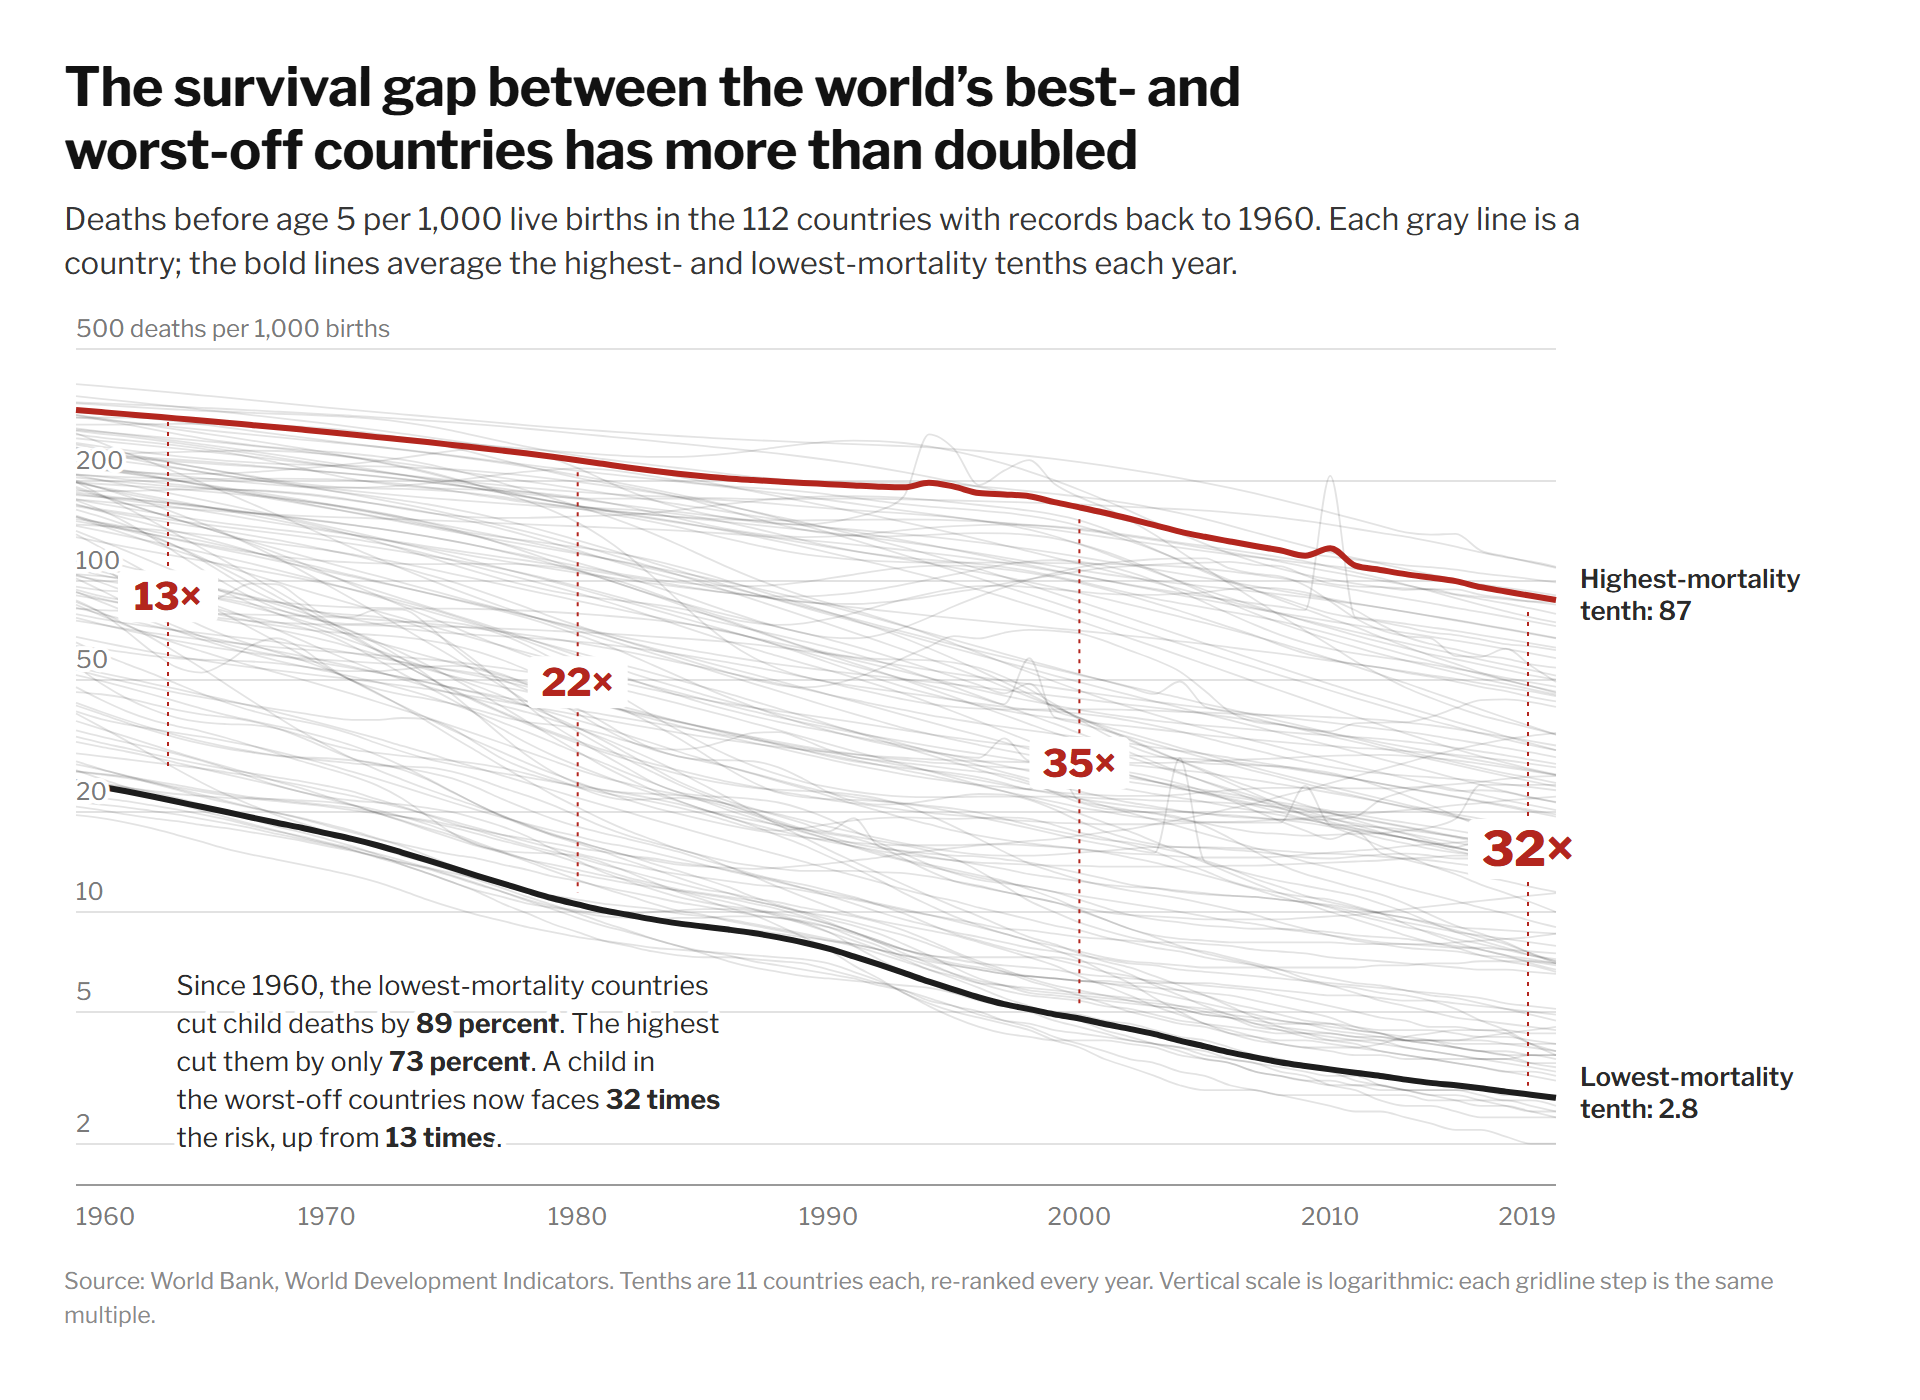
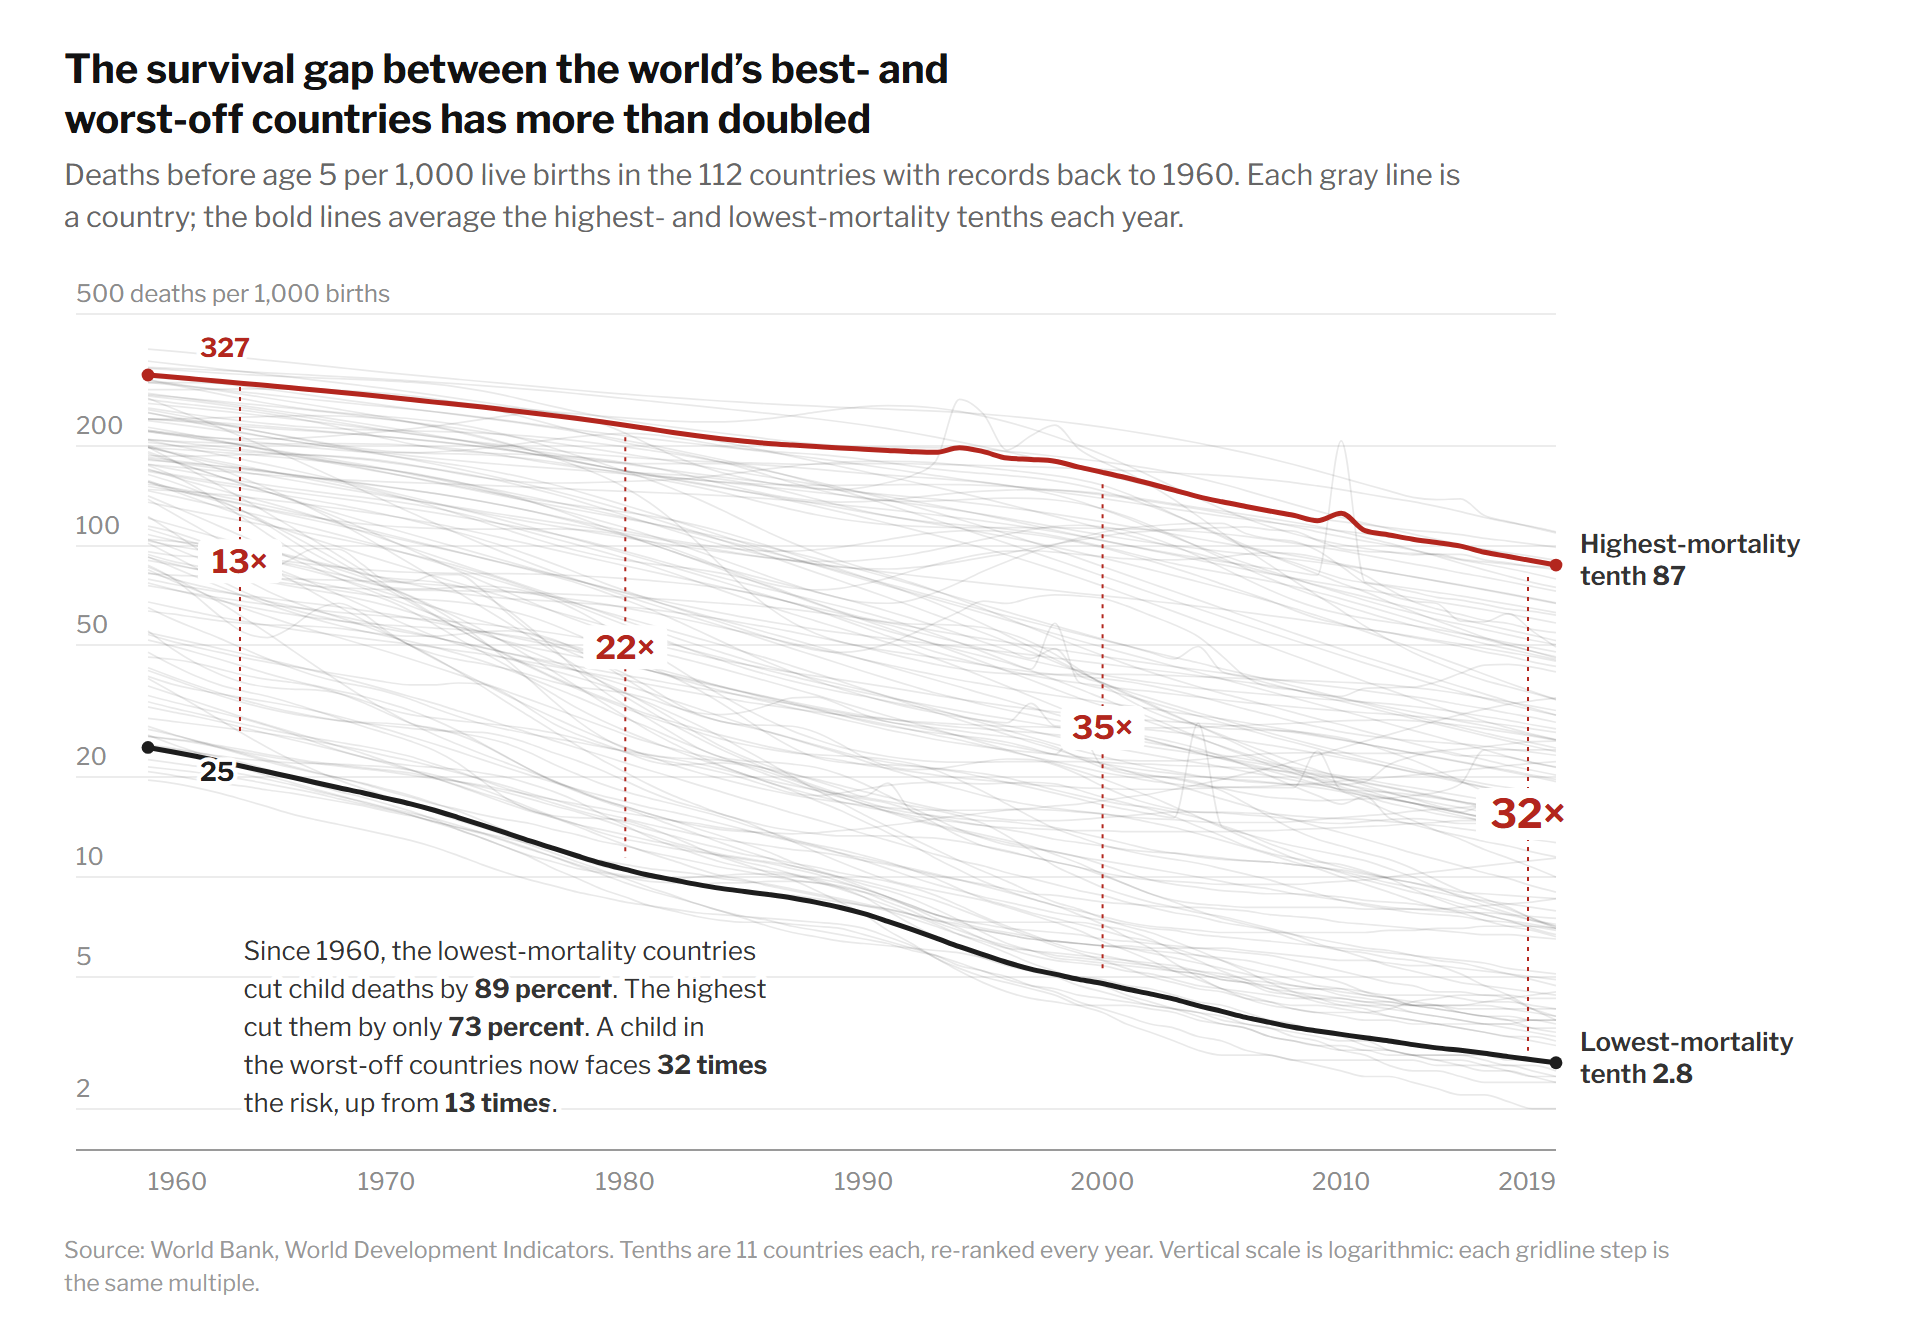
Quieter in-article chart styling: smaller titles, lighter context lines, endpoint values

Changed region(s): [[0.0312, 0.0308, 0.9375, 0.9865], [0.0312, 0.6165, 0.0625, 0.6474]]

diff --git a/charts/chart.html b/charts/chart.html
@@ -12,20 +12,21 @@
   :root { --ink: #121212; --mid: #5a5a5a; --soft: #8a8a8a; --rule: #e2e2e2; }
   html, body { margin: 0; background: #fff; }
   body { font-family: "Libre Franklin", "Franklin Gothic Book", Arial, sans-serif; color: var(--ink); }
-  #wrap { width: 960px; padding: 28px 32px 22px; box-sizing: border-box; }
-  h1 { text-wrap: balance; font-weight: 700; font-size: 27px; line-height: 1.16; letter-spacing: -0.012em; margin: 0 0 8px; max-width: 860px; }
-  .dek { font-size: 15.5px; line-height: 1.42; color: #363636; margin: 0 0 14px; max-width: 800px; font-weight: 400; }
-  .src { font-size: 11.5px; color: var(--soft); margin-top: 6px; line-height: 1.45; }
+  #wrap { width: 960px; padding: 22px 32px 18px; box-sizing: border-box; }
+  h1 { text-wrap: balance; font-weight: 700; font-size: 20px; line-height: 1.25; letter-spacing: -0.005em; margin: 0 0 5px; max-width: 700px; }
+  .dek { font-size: 14.5px; line-height: 1.45; color: #666; margin: 0 0 20px; max-width: 700px; font-weight: 400; }
+  .src { font-size: 11.5px; color: #999; margin-top: 8px; max-width: 820px; line-height: 1.45; }
   svg { display: block; overflow: visible; }
   svg text { font-family: inherit; }
-  .tick { font-size: 12px; fill: #7a7a7a; paint-order: stroke; stroke: #fff; stroke-width: 4px; stroke-linejoin: round; font-variant-numeric: tabular-nums; }
-  .grid { stroke: var(--rule); stroke-width: 1; shape-rendering: crispEdges; }
+  .tick { font-size: 12px; fill: #8c8c8c; paint-order: stroke; stroke: #fff; stroke-width: 4px; stroke-linejoin: round; font-variant-numeric: tabular-nums; }
+  .grid { stroke: #ececec; stroke-width: 1; shape-rendering: crispEdges; }
   .base { stroke: #9a9a9a; stroke-width: 1; shape-rendering: crispEdges; }
-  .country { fill: none; stroke: #000; stroke-opacity: 0.11; stroke-width: 0.9; stroke-linejoin: round; }
-  .ann { font-size: 13.5px; fill: #2a2a2a; paint-order: stroke; stroke: #fff; stroke-width: 5px; stroke-linejoin: round; }
+  .country { fill: none; stroke: #000; stroke-opacity: 0.085; stroke-width: 0.85; stroke-linejoin: round; }
+  .ann { font-size: 13px; fill: #333; paint-order: stroke; stroke: #fff; stroke-width: 5px; stroke-linejoin: round; }
   .halo { paint-order: stroke; stroke: #fff; stroke-width: 4px; stroke-linejoin: round; }
   .ann-b { font-weight: 700; }
   .lab { font-size: 13px; font-weight: 600; }
+  .val { font-size: 13px; font-weight: 700; font-variant-numeric: tabular-nums; }
   .lab-sub { font-size: 12px; font-weight: 400; fill: var(--mid); }
   .leader { stroke: #333; stroke-width: 0.8; fill: none; }
   .mk circle { stroke: #fff; stroke-width: 2; }
@@ -49,6 +50,7 @@ const svg = d3.select("#chart").attr("width", W).attr("height", H).attr("viewBox
 const root = svg.append("g").attr("transform", `translate(${M.l},${M.t})`);
 const gBack = root.append("g"), g = root.append("g"), gTop = root.append("g");
 const fmt = d3.format(".0f");
+const GX = 36; // gutter so y labels never sit on the data
 
 // Wrapped multi-line text helper: lines = array of strings or [text, cls] pairs
 function block(sel, x, y, lines, opts = {}) {
@@ -79,7 +81,7 @@ function drawFor(D) {
   d3.select("#dek").html("Deaths before age 5 per 1,000 live births, 1970–2019. Each gray line is a country; the shaded band holds the middle 80 percent of all babies born in the world that year.");
   d3.select("#src").html("Source: World Bank, World Development Indicators. Band weights each country by its annual births (population × crude birth rate); 1970 covers 140 countries and 93% of births, 2019 covers 186.");
 
-  const x = d3.scaleLinear().domain([1970, 2019]).range([0, iw]);
+  const x = d3.scaleLinear().domain([1970, 2019]).range([GX, iw]);
   const y = d3.scaleLinear().domain([0, 400]).range([ih, 0]);
   [100, 200, 300, 400].forEach(v => {
     gBack.append("line").attr("class", "grid").attr("x1", 0).attr("x2", iw).attr("y1", y(v)).attr("y2", y(v));
@@ -91,13 +93,13 @@ function drawFor(D) {
       .attr("text-anchor", v === 1970 ? "start" : v === 2019 ? "end" : "middle").text(v));
 
   const band = D.band;
-  g.append("path").datum(band).attr("fill", GOLD_FILL).attr("opacity", 0.72)
+  g.append("path").datum(band).attr("fill", GOLD_FILL).attr("opacity", 0.62)
     .attr("d", d3.area().x(d => x(d.y)).y0(d => y(d.p10)).y1(d => y(d.p90)).curve(d3.curveMonotoneX));
   const line = d3.line().x(d => x(d[0])).y(d => y(d[1])).curve(d3.curveMonotoneX);
   g.append("g").selectAll("path").data(D.all).join("path").attr("class", "country")
     .attr("d", c => line(c.v.filter(p => p[0] >= 1970)));
   ["p10", "p90"].forEach(k => g.append("path").datum(band).attr("fill", "none").attr("stroke", GOLD)
-    .attr("stroke-width", 1.1).attr("stroke-dasharray", "3 2.5")
+    .attr("stroke-width", 1)
     .attr("d", d3.line().x(d => x(d.y)).y(d => y(d[k])).curve(d3.curveMonotoneX)));
 
   // Highlighted countries: the two that shape the band most
@@ -112,8 +114,12 @@ function drawFor(D) {
   const b0 = band[0], b1 = band[band.length - 1];
   // right-edge labels
   const R = iw + 12;
-  block(gTop, R, y((b1.p10 + b1.p90) / 2) - 12, [[["In 2019, the", "lab"]], [["middle 80%:", "lab"]], [[`${fmt(b1.p10)} to ${fmt(b1.p90)}`, "lab"]]], { lh: 16 })
+  block(gTop, R, y(b1.p90) - 12, [[["Middle 80%", "lab"]], [["in 2019: ", "lab"], [`${fmt(b1.p10)}–${fmt(b1.p90)}`, "val"]]], { lh: 16 })
     .attr("fill", GOLD);
+  D.all.filter(c => hi[c.code]).forEach(c => {
+    const v = c.v.at(-1)[1];
+    block(gTop, R, y(v) + 4.5, [[[hi[c.code] + " ", "lab"], [fmt(v), "val"]]]).attr("class", "halo");
+  });
   const lab = (txt, yr, code, dy) => {
     const v = D.all.find(c => c.code === code).v.find(p => p[0] === yr)[1];
     gTop.append("text").attr("class", "lab halo").attr("x", x(yr)).attr("y", y(v) + dy).text(txt);
@@ -150,7 +156,7 @@ function drawAgainst(D) {
   d3.select("#dek").html(`Deaths before age 5 per 1,000 live births in the ${D.n_cohort} countries with records back to 1960. Each gray line is a country; the bold lines average the highest- and lowest-mortality tenths each year.`);
   d3.select("#src").html(`Source: World Bank, World Development Indicators. Tenths are ${Math.round(D.n_cohort / 10)} countries each, re-ranked every year. Vertical scale is logarithmic: each gridline step is the same multiple.`);
 
-  const x = d3.scaleLinear().domain([1960, 2019]).range([0, iw]);
+  const x = d3.scaleLinear().domain([1960, 2019]).range([GX, iw]);
   const y = d3.scaleLog().domain([1.5, 500]).range([ih, 0]);
   [2, 5, 10, 20, 50, 100, 200, 500].forEach(v => {
     gBack.append("line").attr("class", "grid").attr("x1", 0).attr("x2", iw).attr("y1", y(v)).attr("y2", y(v));
@@ -164,8 +170,13 @@ function drawAgainst(D) {
   const line = d3.line().x(d => x(d[0])).y(d => y(d[1])).curve(d3.curveMonotoneX);
   g.append("g").selectAll("path").data(D.cohort).join("path").attr("class", "country").attr("d", c => line(c.v));
   const tl = k => d3.line().x(d => x(d.y)).y(d => y(d[k])).curve(d3.curveMonotoneX);
-  g.append("path").datum(T).attr("fill", "none").attr("stroke", RED).attr("stroke-width", 3).attr("d", tl("top"));
-  g.append("path").datum(T).attr("fill", "none").attr("stroke", "#1d1d1d").attr("stroke-width", 3).attr("d", tl("bot"));
+  g.append("path").datum(T).attr("fill", "none").attr("stroke", RED).attr("stroke-width", 2.5).attr("d", tl("top"));
+  g.append("path").datum(T).attr("fill", "none").attr("stroke", "#1d1d1d").attr("stroke-width", 2.5).attr("d", tl("bot"));
+  [[t0.top, RED, -9], [t0.bot, "#1d1d1d", 17]].forEach(([v, c, dy]) => {
+    g.append("circle").attr("cx", x(1960)).attr("cy", y(v)).attr("r", 3.2).attr("fill", c);
+    gTop.append("text").attr("class", "val halo").attr("x", x(1960) + 26).attr("y", y(v) + dy).attr("fill", c).text(v < 10 ? v.toFixed(1) : fmt(v));
+  });
+  [[t1.top, RED], [t1.bot, "#1d1d1d"]].forEach(([v, c]) => g.append("circle").attr("cx", x(2019)).attr("cy", y(v)).attr("r", 3.2).attr("fill", c));
 
   // multiples between the two lines
   [1960, 1980, 2000, 2019].forEach(yr => {
@@ -173,15 +184,15 @@ function drawAgainst(D) {
     g.append("line").attr("x1", xx).attr("x2", xx).attr("y1", y(d.top) + 6).attr("y2", y(d.bot) - 6)
       .attr("stroke", RED).attr("stroke-width", 1).attr("stroke-dasharray", "2 3");
     const ym = y(Math.sqrt(d.top * d.bot)), last = yr === 2019;
-    g.append("rect").attr("x", xx - (last ? 30 : 25)).attr("y", ym - (last ? 15 : 13)).attr("width", last ? 60 : 50)
-      .attr("height", last ? 30 : 26).attr("rx", 3).attr("fill", "#fff");
+    g.append("rect").attr("x", xx - (last ? 26 : 21)).attr("y", ym - (last ? 13 : 11)).attr("width", last ? 52 : 42)
+      .attr("height", last ? 26 : 22).attr("rx", 3).attr("fill", "#fff");
     g.append("text").attr("x", xx).attr("y", ym).attr("text-anchor", "middle").attr("dominant-baseline", "central")
-      .attr("font-size", last ? 24 : 19).attr("font-weight", 800).attr("fill", RED).text(`${Math.round(r)}×`);
+      .attr("font-size", last ? 20 : 16).attr("font-weight", 700).attr("fill", RED).text(`${Math.round(r)}×`);
   });
 
   const R = iw + 12;
-  block(gTop, R, y(t1.top) - 6, [[["Highest-mortality", "lab"]], [["tenth: ", "lab"], [fmt(t1.top), "lab"]]], { lh: 16 }).attr("fill", RED);
-  block(gTop, R, y(t1.bot) - 6, [[["Lowest-mortality", "lab"]], [["tenth: ", "lab"], [t1.bot.toFixed(1), "lab"]]], { lh: 16 });
+  block(gTop, R, y(t1.top) - 6, [[["Highest-mortality", "lab"]], [["tenth ", "lab"], [fmt(t1.top), "val"]]], { lh: 16 }).attr("fill", RED);
+  block(gTop, R, y(t1.bot) - 6, [[["Lowest-mortality", "lab"]], [["tenth ", "lab"], [t1.bot.toFixed(1), "val"]]], { lh: 16 });
 
   const dTop = Math.round(100 * (1 - t1.top / t0.top)), dBot = Math.round(100 * (1 - t1.bot / t0.bot));
   block(gTop, x(1964), y(5.6), [
